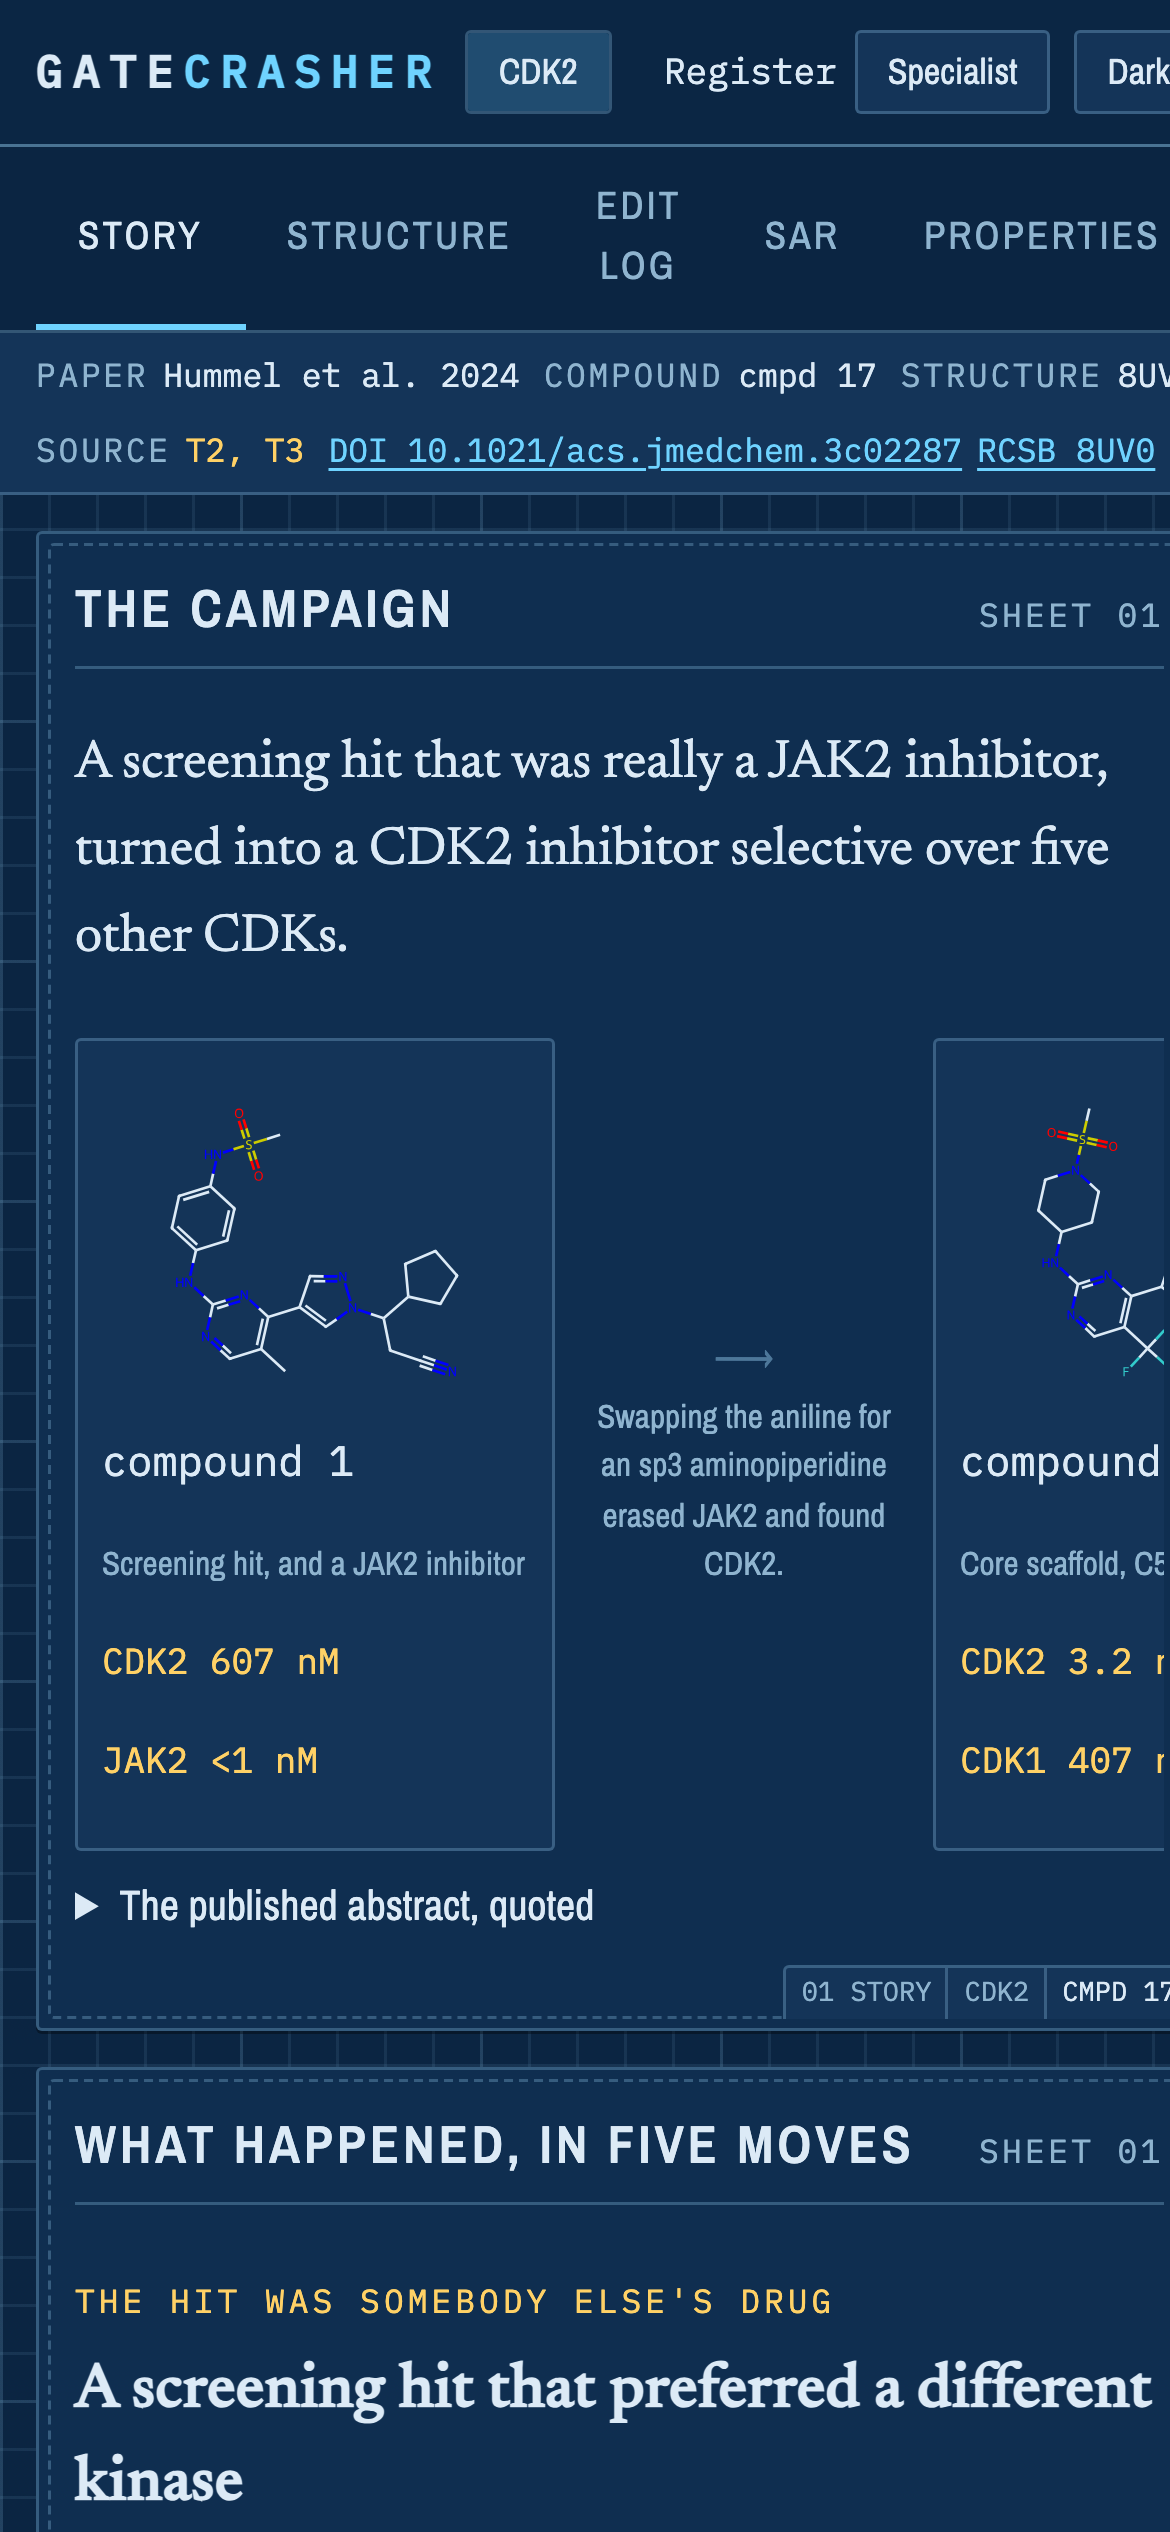
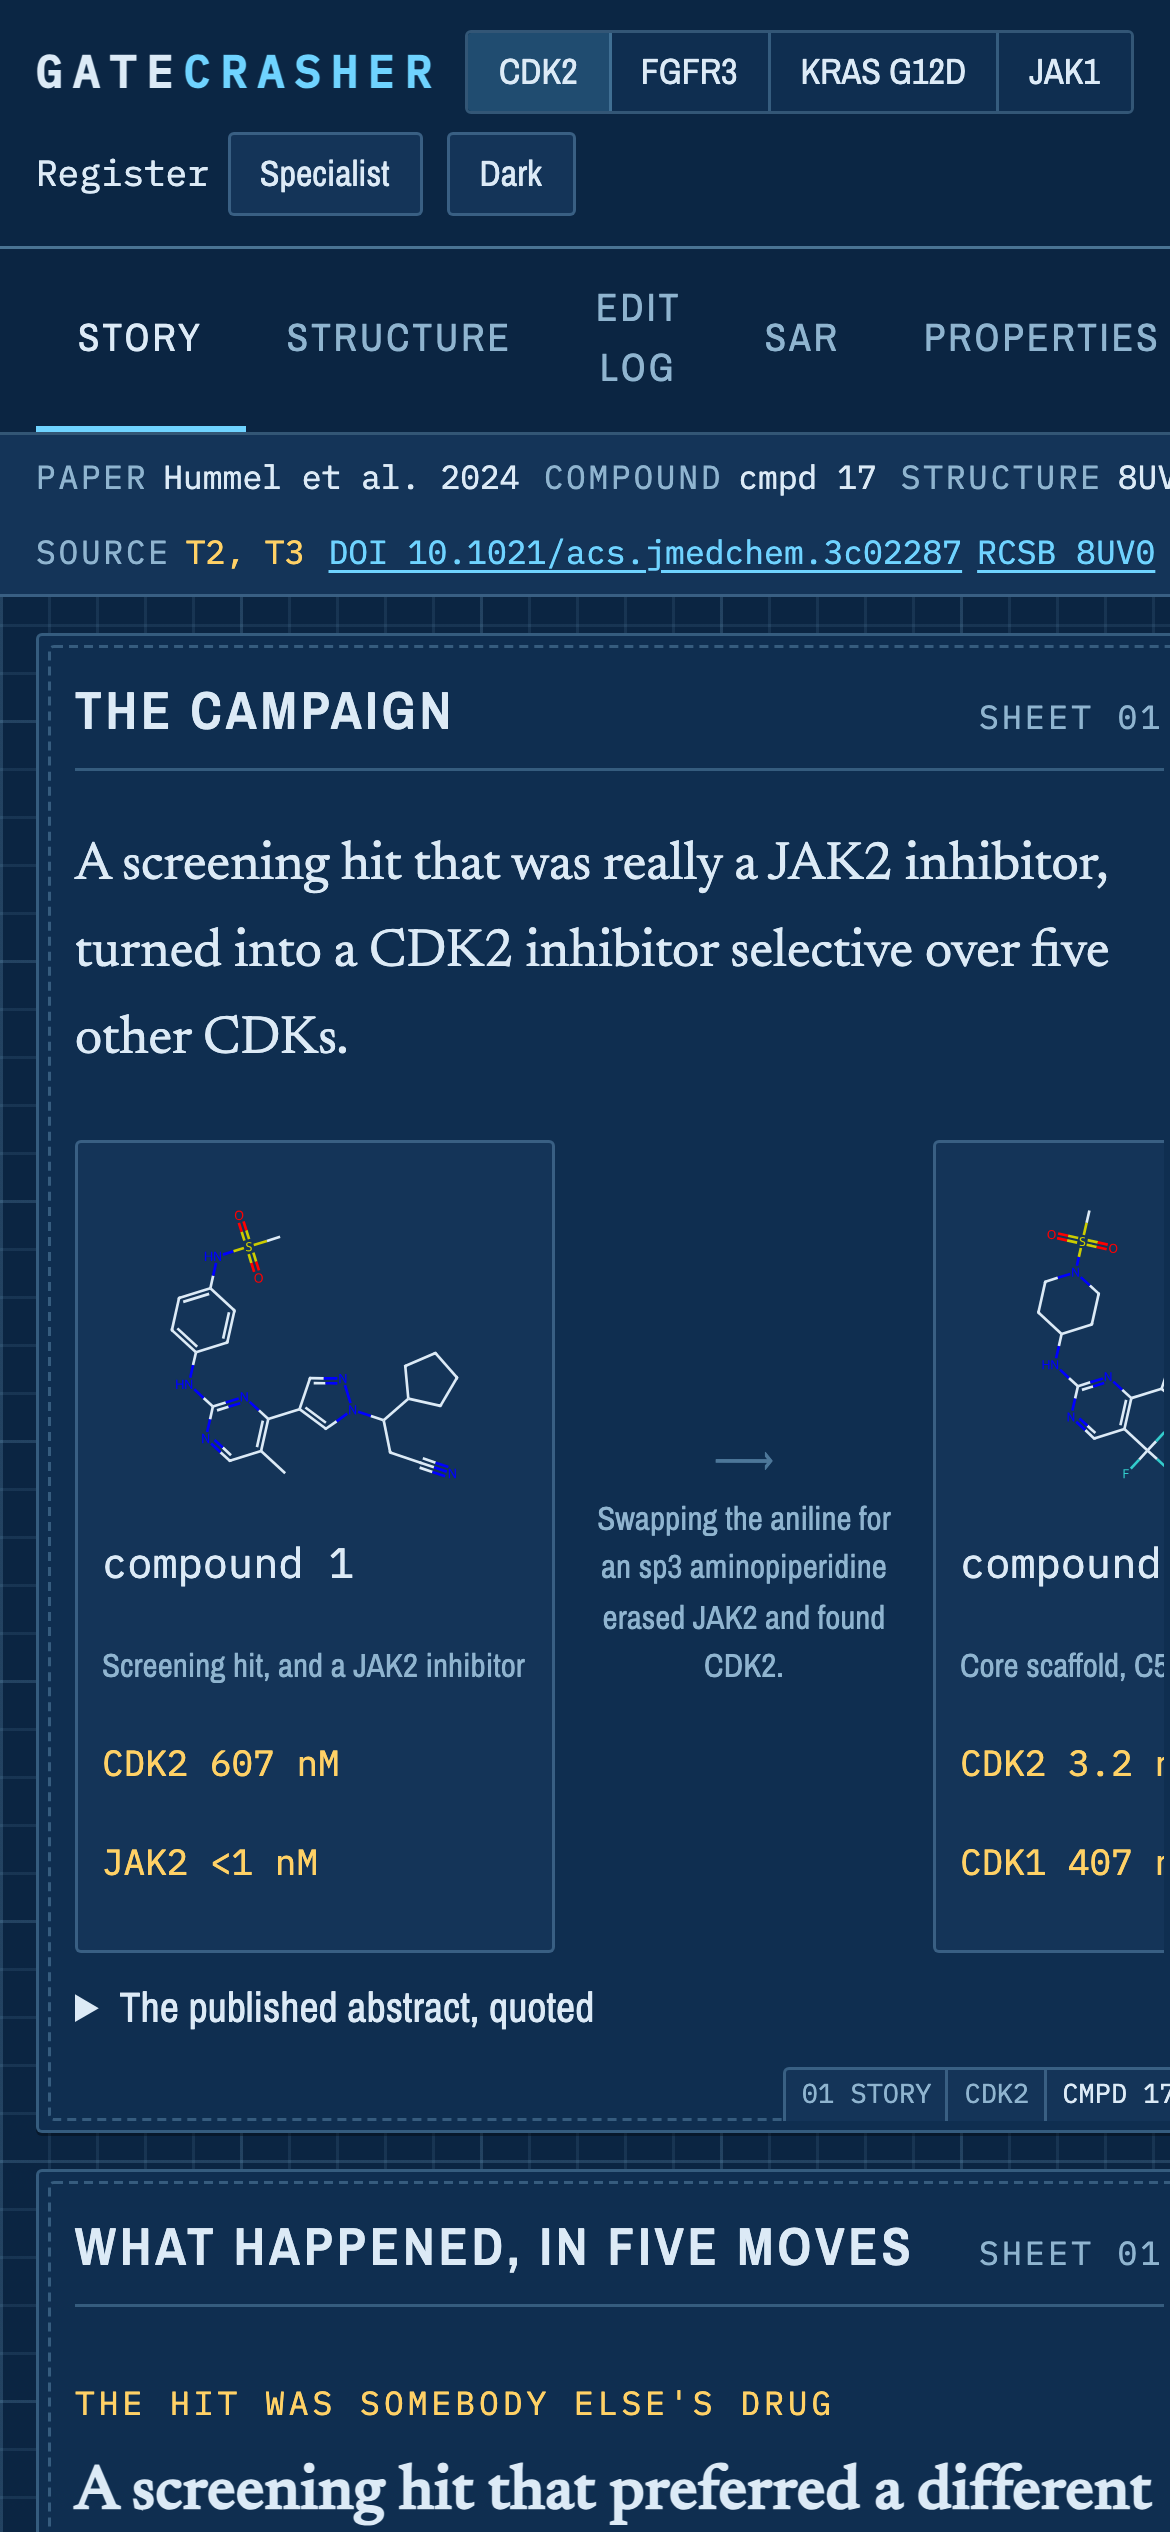
Stage 3 verified in a browser, and Stage 4 deployment scaffolding
67 browser checks pass with zero failures across all four papers: the switcher,
the keyboard shortcuts, KRAS degrading to a plain sequence ruler with no empty
pocket affordances, and JAK1's twin structures with the anti-target viewer.

Three real bugs the browser found, none of which a unit test would have:

- Mol* CLEARS its host element's children when it mounts, which destroyed the
  viewer labels and left the app holding detached nodes. The labels are now
  siblings of the host, inside a positioned frame.
- boot() wired the shell only AFTER the first bundle finished loading, so the
  keyboard shortcuts did not exist during load and a key pressed then was
  silently swallowed. The shell is wired before the first paper loads.
- selectPaper wrote the URL only after every panel had drawn, so the address
  bar lagged the reader's click by seconds on the heaviest bundle and a copied
  link could be the previous paper. It now writes as soon as state is applied.
  Concurrent switches are serialised, so pressing 2 then 3 cannot land backwards.

Also added the copy gate BUILD_SPEC section 11 asks for, which immediately
caught me naming the company in a comment in raw/jak1/tables.json. Ground rule 1
is now enforced rather than remembered. Vendored third-party code is excluded:
Plotly's bundle contains an em dash and failing on that would teach everyone to
skip the check.

Claude-Session: https://claude.ai/code/session_01HkDbmCTHqoA5exPm7uRHnP

diff --git a/web/js/panels/structure.js b/web/js/panels/structure.js
@@ -41,6 +41,8 @@ export function initStructure(state) {
     pair: document.getElementById('viewer-pair'),
     targetHost: document.getElementById('viewer-target'),
     antiHost: document.getElementById('viewer-anti'),
+    targetFrame: document.getElementById('viewer-target-frame'),
+    antiFrame: document.getElementById('viewer-anti-frame'),
     targetLabel: document.getElementById('viewer-target-label'),
     antiLabel: document.getElementById('viewer-anti-label'),
     antiToggle: document.getElementById('anti-toggle'),
@@ -121,7 +123,8 @@ export function initStructure(state) {
   /* The anti-target viewer is off by default and opens on demand: the comparison is
    * available, never imposed. */
   async function toggleAnti(on) {
-    el.antiHost.hidden = !on;
+    /* The FRAME is hidden, not the host: the label lives in the frame. */
+    el.antiFrame.hidden = !on;
     el.antiToggle.setAttribute('aria-pressed', String(on));
     if (!on) {
       unlock?.();
@@ -132,10 +135,14 @@ export function initStructure(state) {
     }
     const twin = bundle.structures.find((s) => s.role === 'anti_target');
     if (!twin) {
+      el.antiLabel.textContent = 'none';
       el.antiHost.replaceChildren(emptyState('No paired anti-target structure',
         'This paper has no co-structure of the same compound in the protein to be avoided.'));
       return;
     }
+    /* Label first: once Mol* mounts it owns the host, and the label is outside it. */
+    el.antiLabel.textContent = `${twin.pdb_id} ${twin.contains.protein}`
+      + (twin.resolution_a ? ` ${twin.resolution_a} Å` : '');
     anti = new StructureViewer(el.antiHost);
     await anti.create({ background: colourToInt(cssToken('--surface-2')) });
     el.antiLabel.textContent = `${twin.pdb_id} ${twin.contains.protein}`;
@@ -500,7 +507,7 @@ export function initStructure(state) {
       unlock = null;
       anti?.dispose();
       anti = null;
-      el.antiHost.hidden = true;
+      el.antiFrame.hidden = true;
       el.antiToggle.setAttribute('aria-pressed', 'false');
       await loadTargetWhenVisible();
       renderChips();

diff --git a/web/js/app.js b/web/js/app.js
@@ -49,14 +49,29 @@ async function boot() {
   const slug = fromHash.paper || papers[0]?.slug;
   if (!slug) return;
 
-  await selectPaper(slug, fromHash);
+  /* Wire the shell BEFORE the first bundle loads. Doing it afterwards means the keyboard
+   * shortcuts and the toggles do not exist until the heaviest panel has finished drawing,
+   * so a key pressed during load is silently swallowed: press 2 while CDK2 is still
+   * rendering and nothing happens at all. The handlers are safe to attach early because
+   * paper switches are serialised and every panel guards on its bundle. */
   wireShell();
   window.addEventListener('hashchange', onHashChange);
+  await selectPaper(slug, fromHash);
 }
 
 /* ------------------------------------------------------------------ paper swap */
 
-async function selectPaper(slug, patch = {}) {
+/* Paper switches are serialised. A visitor can press 2 while the first bundle is still
+ * loading, and two concurrent switches race: the slower one finishes last and overwrites
+ * the paper the reader actually asked for. */
+let switching = Promise.resolve();
+
+function selectPaper(slug, patch = {}) {
+  switching = switching.catch(() => {}).then(() => selectPaperNow(slug, patch));
+  return switching;
+}
+
+async function selectPaperNow(slug, patch = {}) {
   bundle = await loadPaper(slug);
   const state = appState;
 
@@ -89,6 +104,12 @@ async function selectPaper(slug, patch = {}) {
     motif: null,
     beat: null,
   }, 'app:select-paper');
+
+  /* The address bar follows the reader's action immediately. Waiting until every panel has
+   * finished means the URL lags the click by however long the heaviest bundle takes to
+   * draw its depictions and fetch its coordinates, which for FGFR is seconds: long enough
+   * for a copied link to be the previous paper. */
+  state.writeHash();
 
   panels.rail.setBundle(bundle);
   await panels.story.setBundle(bundle);

diff --git a/web/index.html b/web/index.html
@@ -129,12 +129,17 @@
             <span class="sheet-number">SHEET 02</span>
           </div>
 
+          <!-- The label is a SIBLING of the viewer host, never a child: Mol* clears its
+               host's children when it mounts, which would destroy the label and leave the
+               app holding a detached node. -->
           <div class="viewer-pair" id="viewer-pair">
-            <div class="viewer-host is-target" id="viewer-target">
+            <div class="viewer-frame is-target" id="viewer-target-frame">
               <span class="viewer-label mono" id="viewer-target-label">·</span>
+              <div class="viewer-host" id="viewer-target"></div>
             </div>
-            <div class="viewer-host is-anti" id="viewer-anti" hidden>
+            <div class="viewer-frame is-anti" id="viewer-anti-frame" hidden>
               <span class="viewer-label mono" id="viewer-anti-label">·</span>
+              <div class="viewer-host" id="viewer-anti"></div>
             </div>
           </div>
 

diff --git a/web/css/panels.css b/web/css/panels.css
@@ -179,6 +179,11 @@
   gap: calc(var(--unit) * 0.5);
 }
 
+/* The frame owns the positioning context, so the label can sit over the canvas without
+ * being a child of the element Mol* mounts into and wipes. */
+.viewer-frame { position: relative; min-width: 0; }
+.viewer-frame[hidden] { display: none !important; }
+
 .viewer-pair .viewer-label {
   position: absolute;
   top: 6px;
@@ -192,8 +197,8 @@
   border-radius: var(--radius);
 }
 
-.viewer-pair .is-target .viewer-label { color: var(--target); border-color: var(--target); }
-.viewer-pair .is-anti .viewer-label { color: var(--anti); border-color: var(--anti); }
+.viewer-frame.is-target .viewer-label { color: var(--target); border-color: var(--target); }
+.viewer-frame.is-anti .viewer-label { color: var(--anti); border-color: var(--anti); }
 
 /* Mol* paints its own ground, so the panel colour is set on the canvas host and the
  * plugin chrome is hidden: the app supplies its own controls. */

diff --git a/tools/browser_check.py b/tools/browser_check.py
@@ -238,24 +238,36 @@ def main() -> int:
 
         # --------------------------------------------------------- register
         print("\nregister toggle")
-        prose = "document.querySelector('#beats .beat .prose').textContent"
+        # The prose nodes are REPLACED on every register change, so polling their textContent
+        # races the re-render: a poll landing mid-render throws, reads as None, and reports a
+        # working toggle as broken. The button label is a single node that is only ever
+        # rewritten in place, so the wait keys on that and the prose is read afterwards.
+        prose = "(document.querySelector('#beats .beat .prose')||{}).textContent||''"
+        label = "document.getElementById('register-button').textContent.trim()"
         before = tab.js(prose)
         tab.click("#register-button")
-        # Poll rather than sleeping a fixed interval: the panels re-render on the state
-        # dispatch, and a fixed wait reports a working toggle as broken if anything else
-        # (a depiction, a plot) is still settling on the same frame.
-        changed = tab.wait_for(f"{prose} !== {json.dumps(before)}", 10)
+        flipped = tab.wait_for(f"{label} === 'Plain'", 6)
+        # If the synthetic pointer click did not land, say so and then drive the control
+        # directly, so the rest of the register assertions still mean something and the
+        # output distinguishes "the control is unreachable" from "the logic is broken".
+        by_pointer = flipped
+        if not flipped:
+            tab.js("document.getElementById('register-button').click()")
+            flipped = tab.wait_for(f"{label} === 'Plain'", 6)
         after = tab.js(prose)
-        label = tab.js("document.getElementById('register-button').textContent")
+        check("the register control responds to a real pointer click", by_pointer,
+              "a direct .click() " + ("did work, so the handler is fine and the synthetic "
+                                      "press missed the element" if flipped else "did not work either"))
+        check("switching register flips the control", flipped,
+              f"button reads {tab.js(label)!r}, hash {tab.js('location.hash')!r}")
         check("switching register rewrites the beat prose",
-              changed and bool(after) and before != after,
-              f"button reads {(label or '').strip()!r}, hash {tab.js('location.hash')!r}, "
+              bool(after) and before != after,
               f"before={(before or '')[:50]!r} after={(after or '')[:50]!r}")
         check("the plain register really is plainer",
               len(after or "") > 0 and "sp3" not in (after or ""),
               (after or "")[:80])
         tab.click("#register-button")
-        tab.wait_for(f"{prose} === {json.dumps(before)}", 10)
+        tab.wait_for(f"{label} === 'Specialist'", 10)
 
         # -------------------------------------------------------- structure
         print("\nstructure sheet")
@@ -377,10 +389,69 @@ def main() -> int:
         })()""")
         check("tabbing to a control shows a focus ring", focus_ring == "visible", str(focus_ring))
         tab.key("r")
+        tab.wait_for("document.getElementById('register-button').textContent.trim() === 'Plain'", 5)
         check("'r' switches register",
-              tab.js("document.getElementById('register-button').textContent").strip() == "Plain",
-              tab.js("document.getElementById('register-button').textContent"))
+              (tab.js("document.getElementById('register-button').textContent") or "").strip() == "Plain",
+              f"label reads {tab.js('document.getElementById(\"register-button\").textContent')!r}")
         tab.key("r")
+
+        # ------------------------------------------------- all four papers
+        # Everything above runs on CDK2. These are the rows of the section 8 matrix that
+        # only exist once there is more than one bundle, plus the twin-structure path that
+        # only JAK1 has.
+        print("\nfour papers")
+        tab.goto(args.base + "/")
+        # Wait for the first bundle to finish loading before touching the keyboard: the app
+        # serialises paper switches, but a key pressed mid-boot still has to queue behind it,
+        # and the check should measure the switch rather than the boot.
+        tab.wait_for("document.querySelectorAll('#beats .beat').length === 5", 30)
+        papers = tab.js("[...document.querySelectorAll('#paper-switcher button')]"
+                        ".map(b => b.textContent.replace(/\\d+$/, '').trim())")
+        check("all four campaigns are in the switcher",
+              isinstance(papers, list) and len(papers) == 4, str(papers))
+
+        for index, slug in ((2, "fgfr"), (3, "kras"), (4, "jak1")):
+            tab.key(str(index))
+            loaded = tab.wait_for(f"location.hash.startsWith('#{slug}')", 25)
+            check(f"keyboard {index} switches to {slug}", loaded, tab.js("location.hash"))
+            check(f"{slug}: the provenance rail followed the paper",
+                  bool(tab.js("document.getElementById('rail-paper').textContent")),
+                  tab.js("document.getElementById('rail-paper').textContent"))
+            check(f"{slug}: story beats rendered",
+                  (tab.js("document.querySelectorAll('#beats .beat').length") or 0) == 5,
+                  f"{tab.js('document.querySelectorAll(\"#beats .beat\").length')} beats")
+
+        # KRAS is not a kinase: the ruler must degrade with no empty pocket affordances.
+        tab.key("3")
+        tab.wait_for("location.hash.startsWith('#kras')", 25)
+        tab.click("#tab-strip button[data-tab='structure']")
+        time.sleep(1.0)
+        check("kras: the ruler still draws, from the sequence",
+              (tab.js("document.querySelectorAll('#klifs-ruler .ruler-cell').length") or 0) > 100,
+              f"{tab.js('document.querySelectorAll(\"#klifs-ruler .ruler-cell\").length')} cells")
+        check("kras: no KLIFS numbering is claimed anywhere",
+              "KLIFS" not in (tab.js("document.getElementById('klifs-ruler')"
+                                     ".getAttribute('aria-label')") or ""),
+              tab.js("document.getElementById('klifs-ruler').getAttribute('aria-label')"))
+
+        # JAK1 is the only paper with the same ligand in the target and the anti-target.
+        tab.key("4")
+        tab.wait_for("location.hash.startsWith('#jak1')", 25)
+        tab.click("#tab-strip button[data-tab='structure']")
+        check("jak1: the target viewer loaded",
+              tab.wait_for("!!document.querySelector('#viewer-target canvas')", 40))
+        tab.click("#anti-toggle")
+        check("jak1: the anti-target viewer opens on demand",
+              tab.wait_for("!document.getElementById('viewer-anti').hidden", 15))
+        check("jak1: the second structure loaded its own coordinates",
+              tab.wait_for("!!document.querySelector('#viewer-anti canvas')", 40),
+              "no canvas in the anti-target host")
+        check("jak1: the twin is labelled as the anti-target",
+              "JAK2" in (tab.js("document.getElementById('viewer-anti-label').textContent") or ""),
+              tab.js("document.getElementById('viewer-anti-label').textContent"))
+        tab.shot(out / "jak1-twin.png")
+        tab.key("1")
+        tab.wait_for("location.hash.startsWith('#cdk2')", 25)
 
         # --------------------------------------------------------- themes
         print("\nthemes")
